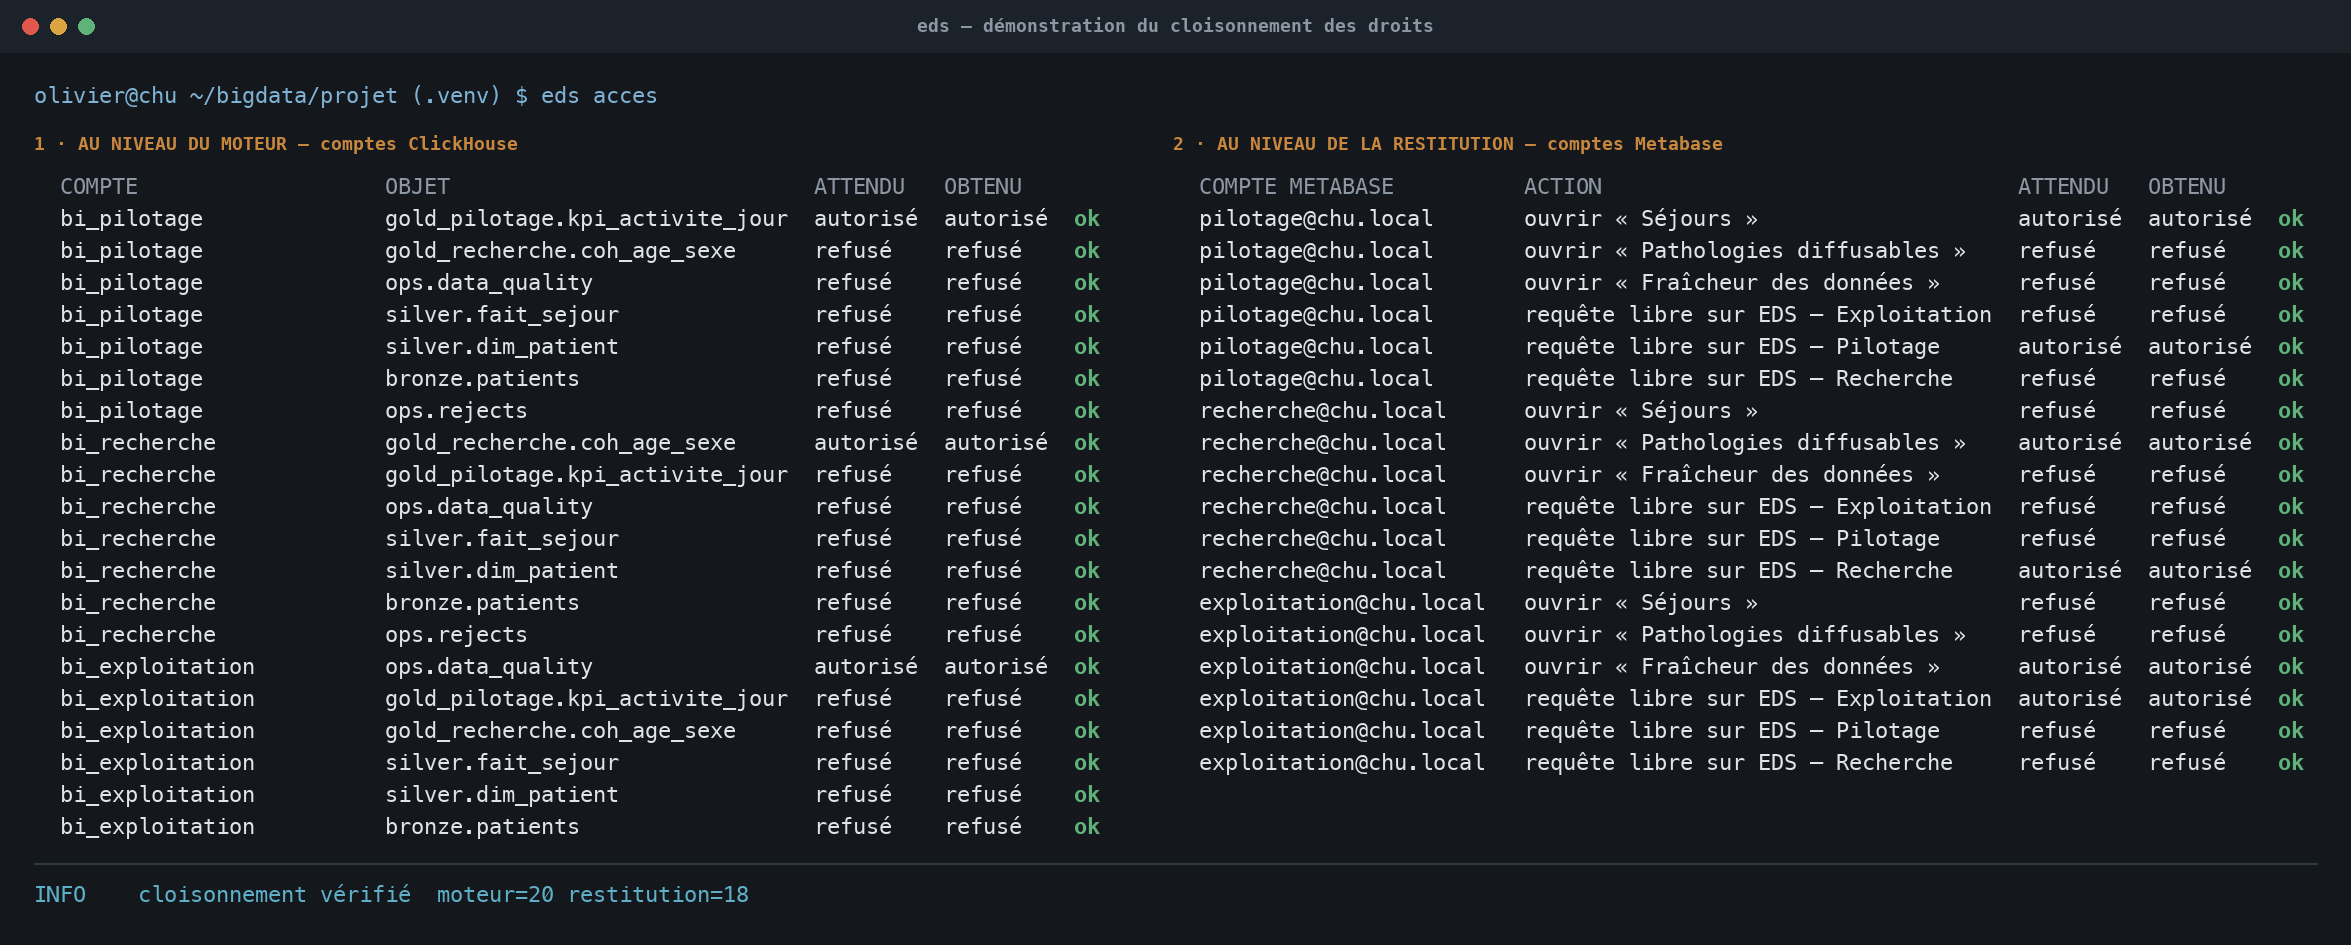
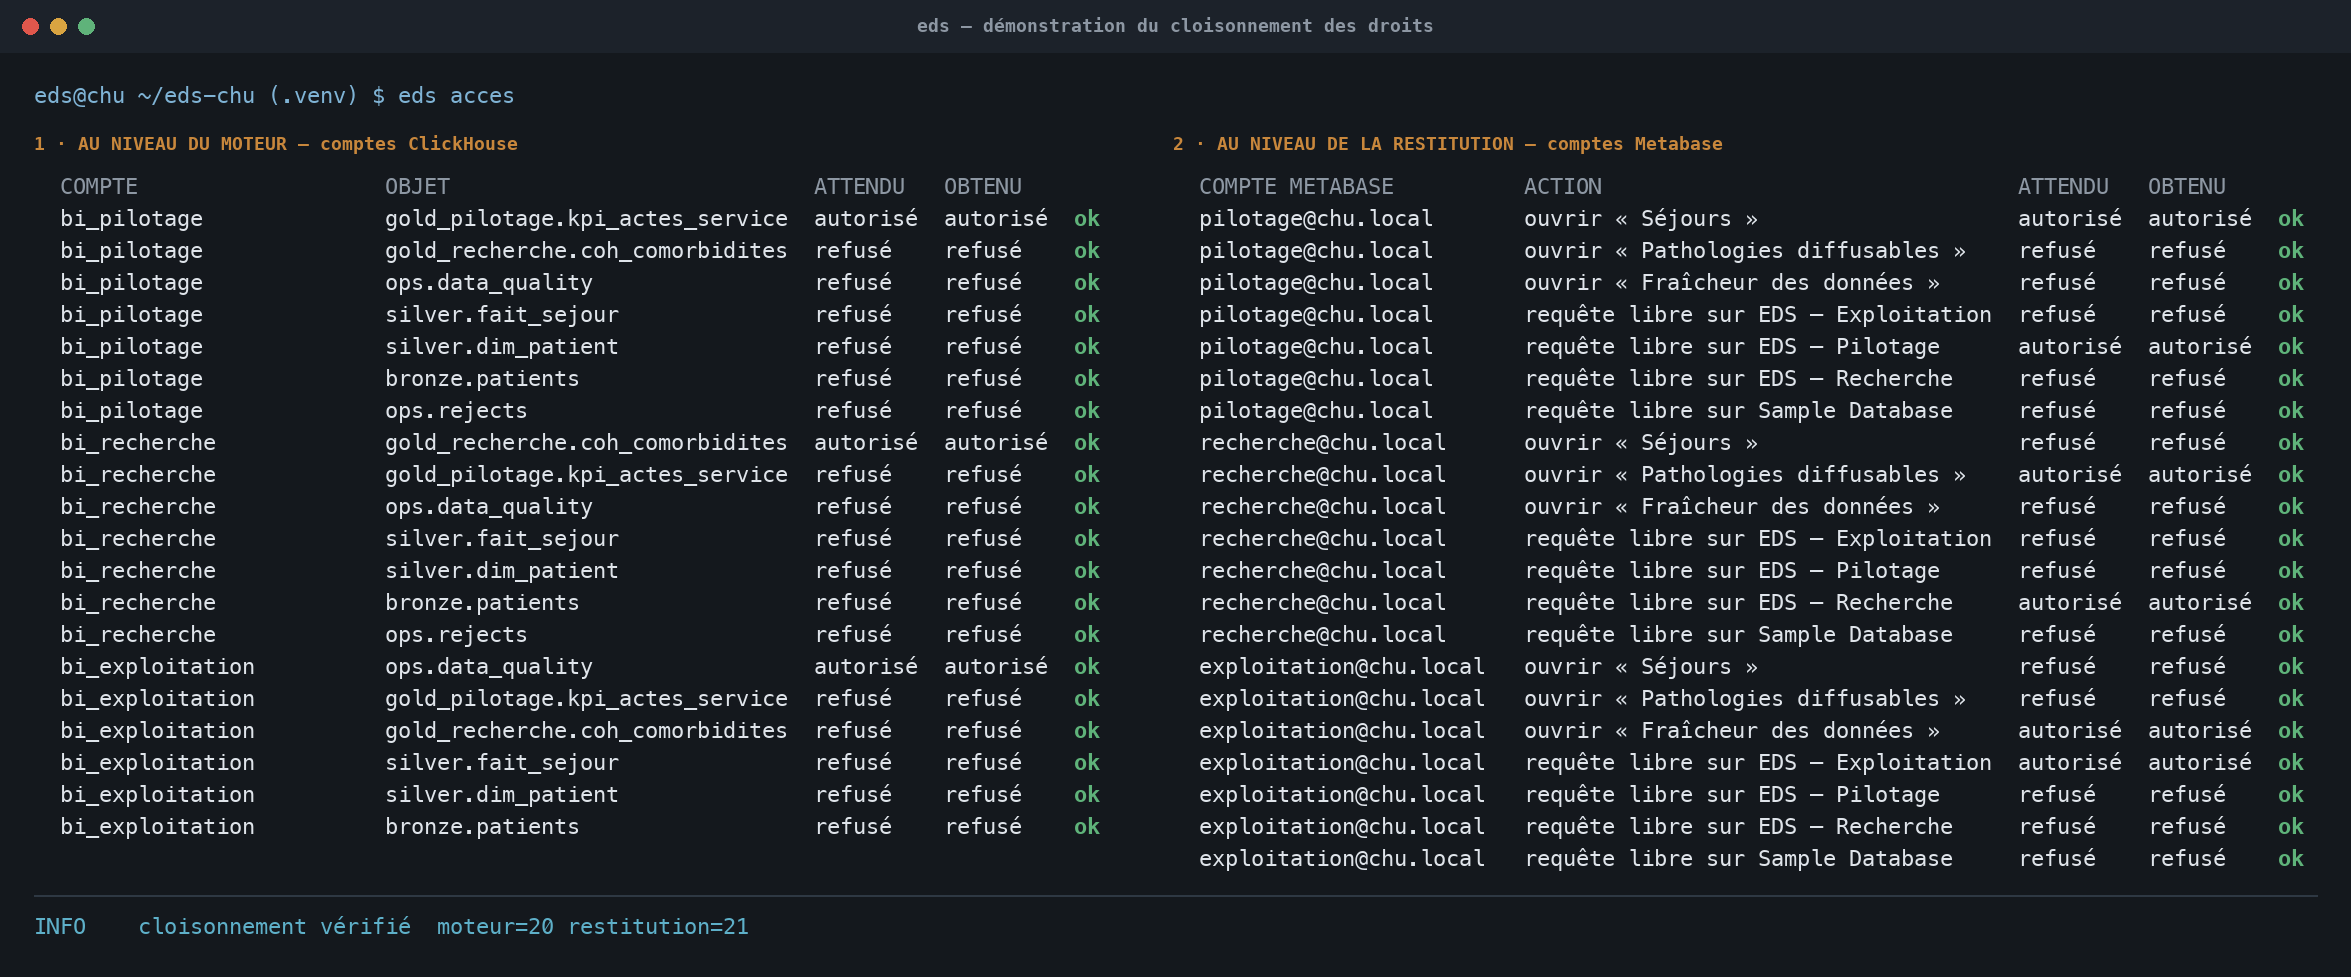
Rendre les livrables anonymes
Deux fuites d'identité dans le rapport, dont une dans une image.

capture_terminal.py inscrivait « olivier@chu ~/bigdata/projet » comme
invite de commande, et cette chaîne était RENDUE dans
cloisonnement-eds-acces.png, donc visible sur une page du dossier.
L'invite devient « eds@chu ~/eds-chu ». L'image était de toute façon
périmée : elle montrait coh_age_sexe, vue supprimée depuis, et
restitution=18 au lieu de 21.

Le HTML du rapport portait une balise <base> avec le répertoire personnel
de l'auteur. Les images sont désormais incorporées en data URI : le
rapport devient un fichier autonome, qui s'ouvre n'importe où, et plus
aucun chemin absolu n'y figure.

Vérifié sur les deux livrables : zéro occurrence du nom, du prénom, du
chemin personnel et du compte distant, dans le PDF comme dans l'archive.
Les métadonnées du PDF ne portent que le titre, la date et le moteur de
rendu.

Reste l'historique git, qui n'entre pas dans les livrables — git archive
n'emporte pas .git — mais reste visible sur le dépôt distant.

Claude-Session: https://claude.ai/code/session_01N8GYeQbrYE5E2HdpVtMC9j

Changed region(s): [[0.0, 0.0921, 0.9936, 0.9513]]

diff --git a/docs/outils/rapport.py b/docs/outils/rapport.py
@@ -15,6 +15,9 @@ sinon perdus. Le HTML intermédiaire est conservé à côté du PDF.
 """
 from __future__ import annotations
 
+import base64
+import mimetypes
+import re
 import shutil
 import subprocess
 import sys
@@ -95,6 +98,25 @@ li { margin: .22em 0; }
 .sommaire li.partie > ol { font-weight: 400; }
 .sommaire a { color: inherit; }
 """
+
+
+def incorporer_images(page: str) -> str:
+    """Remplace chaque image par son contenu, encodé en data URI.
+
+    Deux raisons. Le rapport devient autonome : un seul fichier, qui s'ouvre
+    n'importe où. Et surtout, plus aucun chemin absolu n'y figure — la balise
+    <base> portait le répertoire personnel de l'auteur, ce qui contredit un
+    rendu anonyme.
+    """
+    def remplacer(m: re.Match) -> str:
+        fichier = DOCS / m.group(1)
+        if not fichier.is_file():
+            return m.group(0)
+        type_mime = mimetypes.guess_type(fichier.name)[0] or "application/octet-stream"
+        donnees = base64.b64encode(fichier.read_bytes()).decode("ascii")
+        return f'src="data:{type_mime};base64,{donnees}"'
+
+    return re.sub(r'src="([^":]+)"', remplacer, page)
 
 
 def relier(html_chapitre: str) -> str:
@@ -181,7 +203,6 @@ cités y sont reproductibles par <code>eds run</code> puis
     return f"""<!doctype html>
 <html lang="fr"><head><meta charset="utf-8">
 <title>EDS CHU — rapport de projet</title>
-<base href="{(DOCS.as_uri())}/">
 <style>{STYLE}</style>
 <script src="https://cdn.jsdelivr.net/npm/mermaid@11/dist/mermaid.min.js"></script>
 <script>
@@ -207,7 +228,7 @@ def main() -> int:
     destination.parent.mkdir(parents=True, exist_ok=True)
 
     page = destination.with_suffix(".html")
-    page.write_text(construire_html(), encoding="utf-8", newline="")
+    page.write_text(incorporer_images(construire_html()), encoding="utf-8", newline="")
 
     # virtual-time-budget : Mermaid dessine ses schémas après le chargement.
     # Sans ce délai, Chrome imprimerait les blocs encore vides.

diff --git a/docs/outils/capture_terminal.py b/docs/outils/capture_terminal.py
@@ -137,7 +137,9 @@ def main() -> None:
     pied = next(l for l in brut if "cloisonnement vérifié" in l).rstrip()
 
     rendre(sortie,
-           invite="olivier@chu ~/bigdata/projet (.venv) $ eds acces",
+           # Invite neutre : le rendu est anonyme, aucun nom d'utilisateur ne doit
+           # apparaître sur une image du dossier.
+           invite="eds@chu ~/eds-chu (.venv) $ eds acces",
            titre="eds — démonstration du cloisonnement des droits",
            colonnes=colonnes, pied=pied)
 
